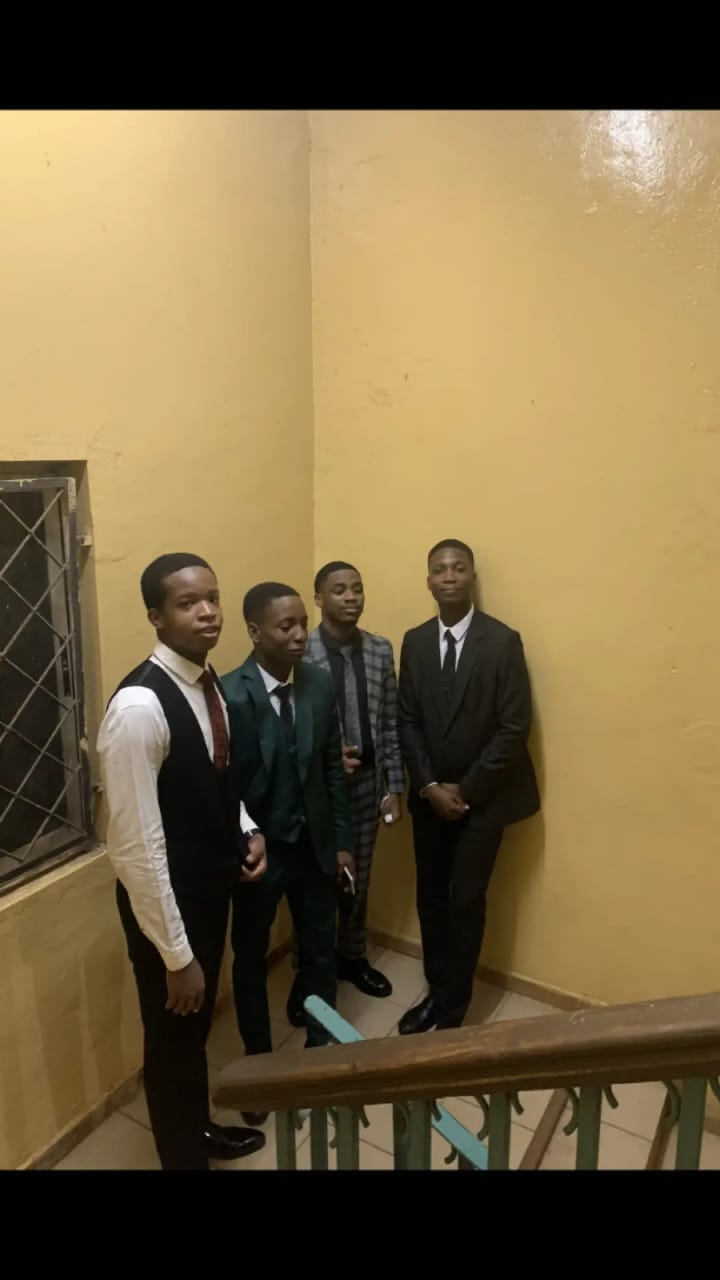
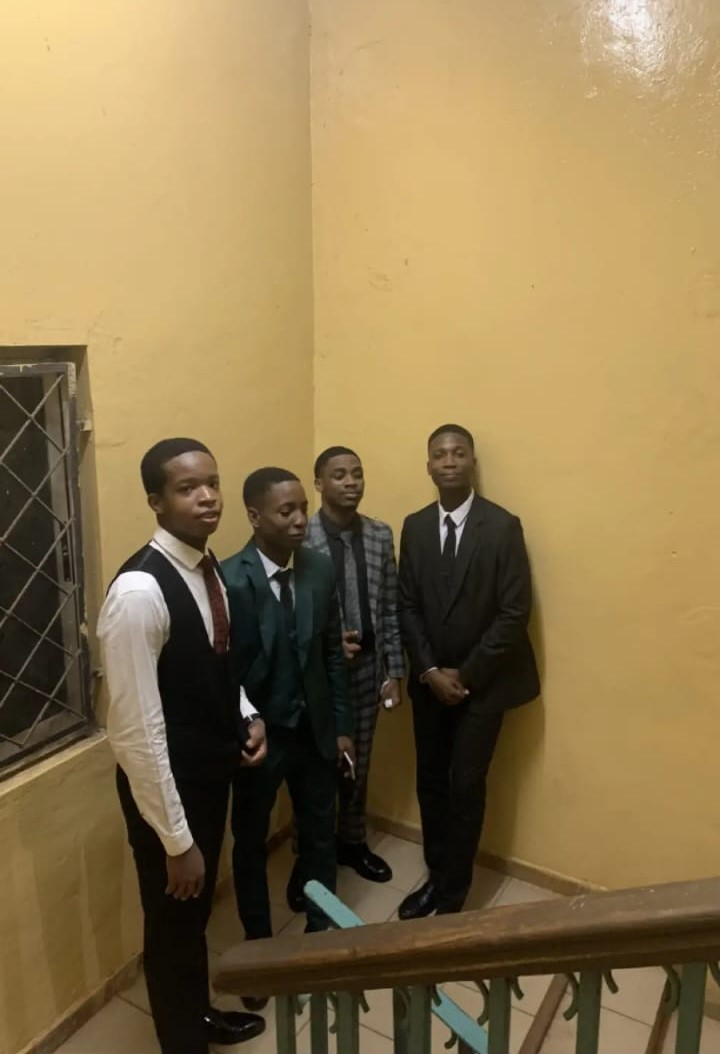
Picture changes

diff --git a/styles/style.css b/styles/style.css
@@ -444,6 +444,9 @@ nav .bar {
   overflow: hidden;
   margin-top: 3rem;
 }
+#about .gallery img {
+  object-fit: fill;
+}
 #about .gallery .gallary-container {
   align-items: center;
   display: flex;
